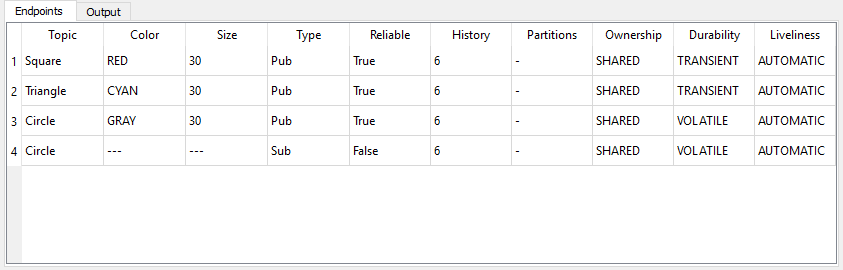
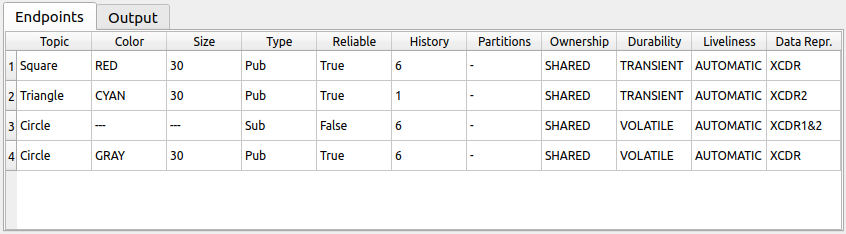
Refs 20106: update images and endopoint table

Changed region(s): [[0.0, 0.0, 1.0, 0.9872], [0.2159, 0.5385, 0.2467, 0.5684]]

diff --git a/docs/first_steps/first_steps.rst b/docs/first_steps/first_steps.rst
@@ -52,10 +52,10 @@ There are multiple parameters that the user can define in this menu:
   The latter will send that last stored values to subscribers joining after the publisher has been created. (see
   `Fast DDS DurabilityQosPolicy Documentation <https://fast-dds.docs.eprosima.com/en/latest/fastdds/dds_layer/core/policy/standardQosPolicies.html#durabilityqospolicy>`_).
 
-- **Data representation:** The Data representation version is set to version 1,
-  ``XCDR``, but the user can select the representation version 2, ``XCDR2``.
+- **Data Representation:** The Data Representation Qos Policy is set to ``XCDR``
+  (version 1), but the user can optionally select the ``XCDR2`` Data Representation.
   (see
-  `Fast DDS Data representation Documentation <https://fast-dds.docs.eprosima.com/en/latest/fastdds/api_reference/dds_pim/core/policy/datarepresentationid.html>`_).
+  `Fast DDS Data representation Documentation <https://fast-dds.docs.eprosima.com/en/latest/fastdds/dds_layer/core/policy/xtypesExtensions.html#datarepresentationqospolicy>`_).
 
 - **Liveliness:** The user can select the Liveliness QoS of the publisher from three different values:
   ``AUTOMATIC``, ``MANUAL_BY_PARTICIPANT`` and ``MANUAL_BY_TOPIC``. The Lease Duration value and Announcement Period
